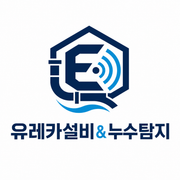
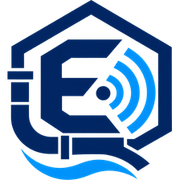
Rebrand site as 노모어누수

diff --git a/src/components/landing/v2/FloatingDesktop.tsx b/src/components/landing/v2/FloatingDesktop.tsx
@@ -12,7 +12,7 @@ import { EVENTS, trackEvent } from "@/lib/analytics";
  * 데스크탑 우측 고정 플로팅 (md+).
  *
  * 위→아래 구성:
- *   1) 앵커 메뉴: 유레카 약속·서비스·작업사례·후기·문의
+ *   1) 앵커 메뉴: 노모어누수 약속·서비스·작업사례·후기·문의
  *   2) 전화 (orange, 큰 강조)
  *   3) 카카오톡 오픈채팅 (yellow)
  *   4) 최근 작업사례 후기 (blue)
@@ -43,7 +43,7 @@ export function FloatingDesktop() {
   }, []);
 
   const anchors = [
-    { href: "/#about", label: "유레카 약속" },
+    { href: "/#about", label: "노모어누수 약속" },
     { href: "/#services", label: "서비스" },
     { href: "/posts", label: "작업사례" },
     { href: "/#reviews", label: "고객후기" },

diff --git a/src/components/landing/v2/MasterSection.tsx b/src/components/landing/v2/MasterSection.tsx
@@ -31,7 +31,7 @@ export function MasterSection() {
     <section className="border-y border-slate-100 bg-slate-50 py-12 md:py-16">
       <Container>
         <Reveal variant="up" className="mx-auto max-w-2xl text-center">
-          <p className="text-sm font-bold tracking-wide text-brand-600">WHY EUREKA</p>
+          <p className="text-sm font-bold tracking-wide text-brand-600">WHY NO MORE NUSU</p>
           <h2 className="mt-2 text-3xl font-black tracking-tight text-slate-950 sm:text-4xl">
             누수 상담은 <span className="text-brand-600">이렇게</span>
             <br />

diff --git a/src/components/landing/Header.tsx b/src/components/landing/Header.tsx
@@ -6,7 +6,7 @@ import { getContactInfo } from "@/lib/contact";
 import { MobileMenu } from "./MobileMenu";
 
 const NAV: { href: string; label: string }[] = [
-  { href: "/#about", label: "유레카 약속" },
+  { href: "/#about", label: "노모어누수 약속" },
   { href: "/#services", label: "서비스" },
   { href: "/posts", label: "작업사례" },
   { href: "/#reviews", label: "고객후기" },

diff --git a/src/components/landing/Footer.tsx b/src/components/landing/Footer.tsx
@@ -27,7 +27,7 @@ export function Footer() {
   if (BUSINESS.email) bizSegments.push(`이메일: ${BUSINESS.email}`);
 
   const menu = [
-    { href: "/#about", label: "유레카 약속" },
+    { href: "/#about", label: "노모어누수 약속" },
     { href: "/#services", label: "서비스안내" },
     { href: "/posts", label: "작업사례" },
     { href: "/#quote-form", label: "문의하기" },

diff --git a/src/lib/env.ts b/src/lib/env.ts
@@ -28,7 +28,7 @@ const optionalSecret = (min = 20) =>
 
 const publicSchema = z.object({
   NEXT_PUBLIC_SITE_URL: z.string().url().default("http://localhost:3000"),
-  NEXT_PUBLIC_SITE_NAME: z.string().min(1).default("누수 시공"),
+  NEXT_PUBLIC_SITE_NAME: z.string().min(1).default("노모어누수"),
   NEXT_PUBLIC_PHONE: z
     .string()
     .regex(/^\d{8,12}$/, "phone must be digits only")

diff --git a/src/components/landing/MobileMenu.tsx b/src/components/landing/MobileMenu.tsx
@@ -10,7 +10,7 @@ type NavItem = { href: string; label: string };
 
 const NAV: NavItem[] = [
   { href: "/", label: "홈" },
-  { href: "/#about", label: "유레카 약속" },
+  { href: "/#about", label: "노모어누수 약속" },
   { href: "/#services", label: "서비스" },
   { href: "/posts", label: "작업사례" },
   { href: "/#reviews", label: "고객후기" },
